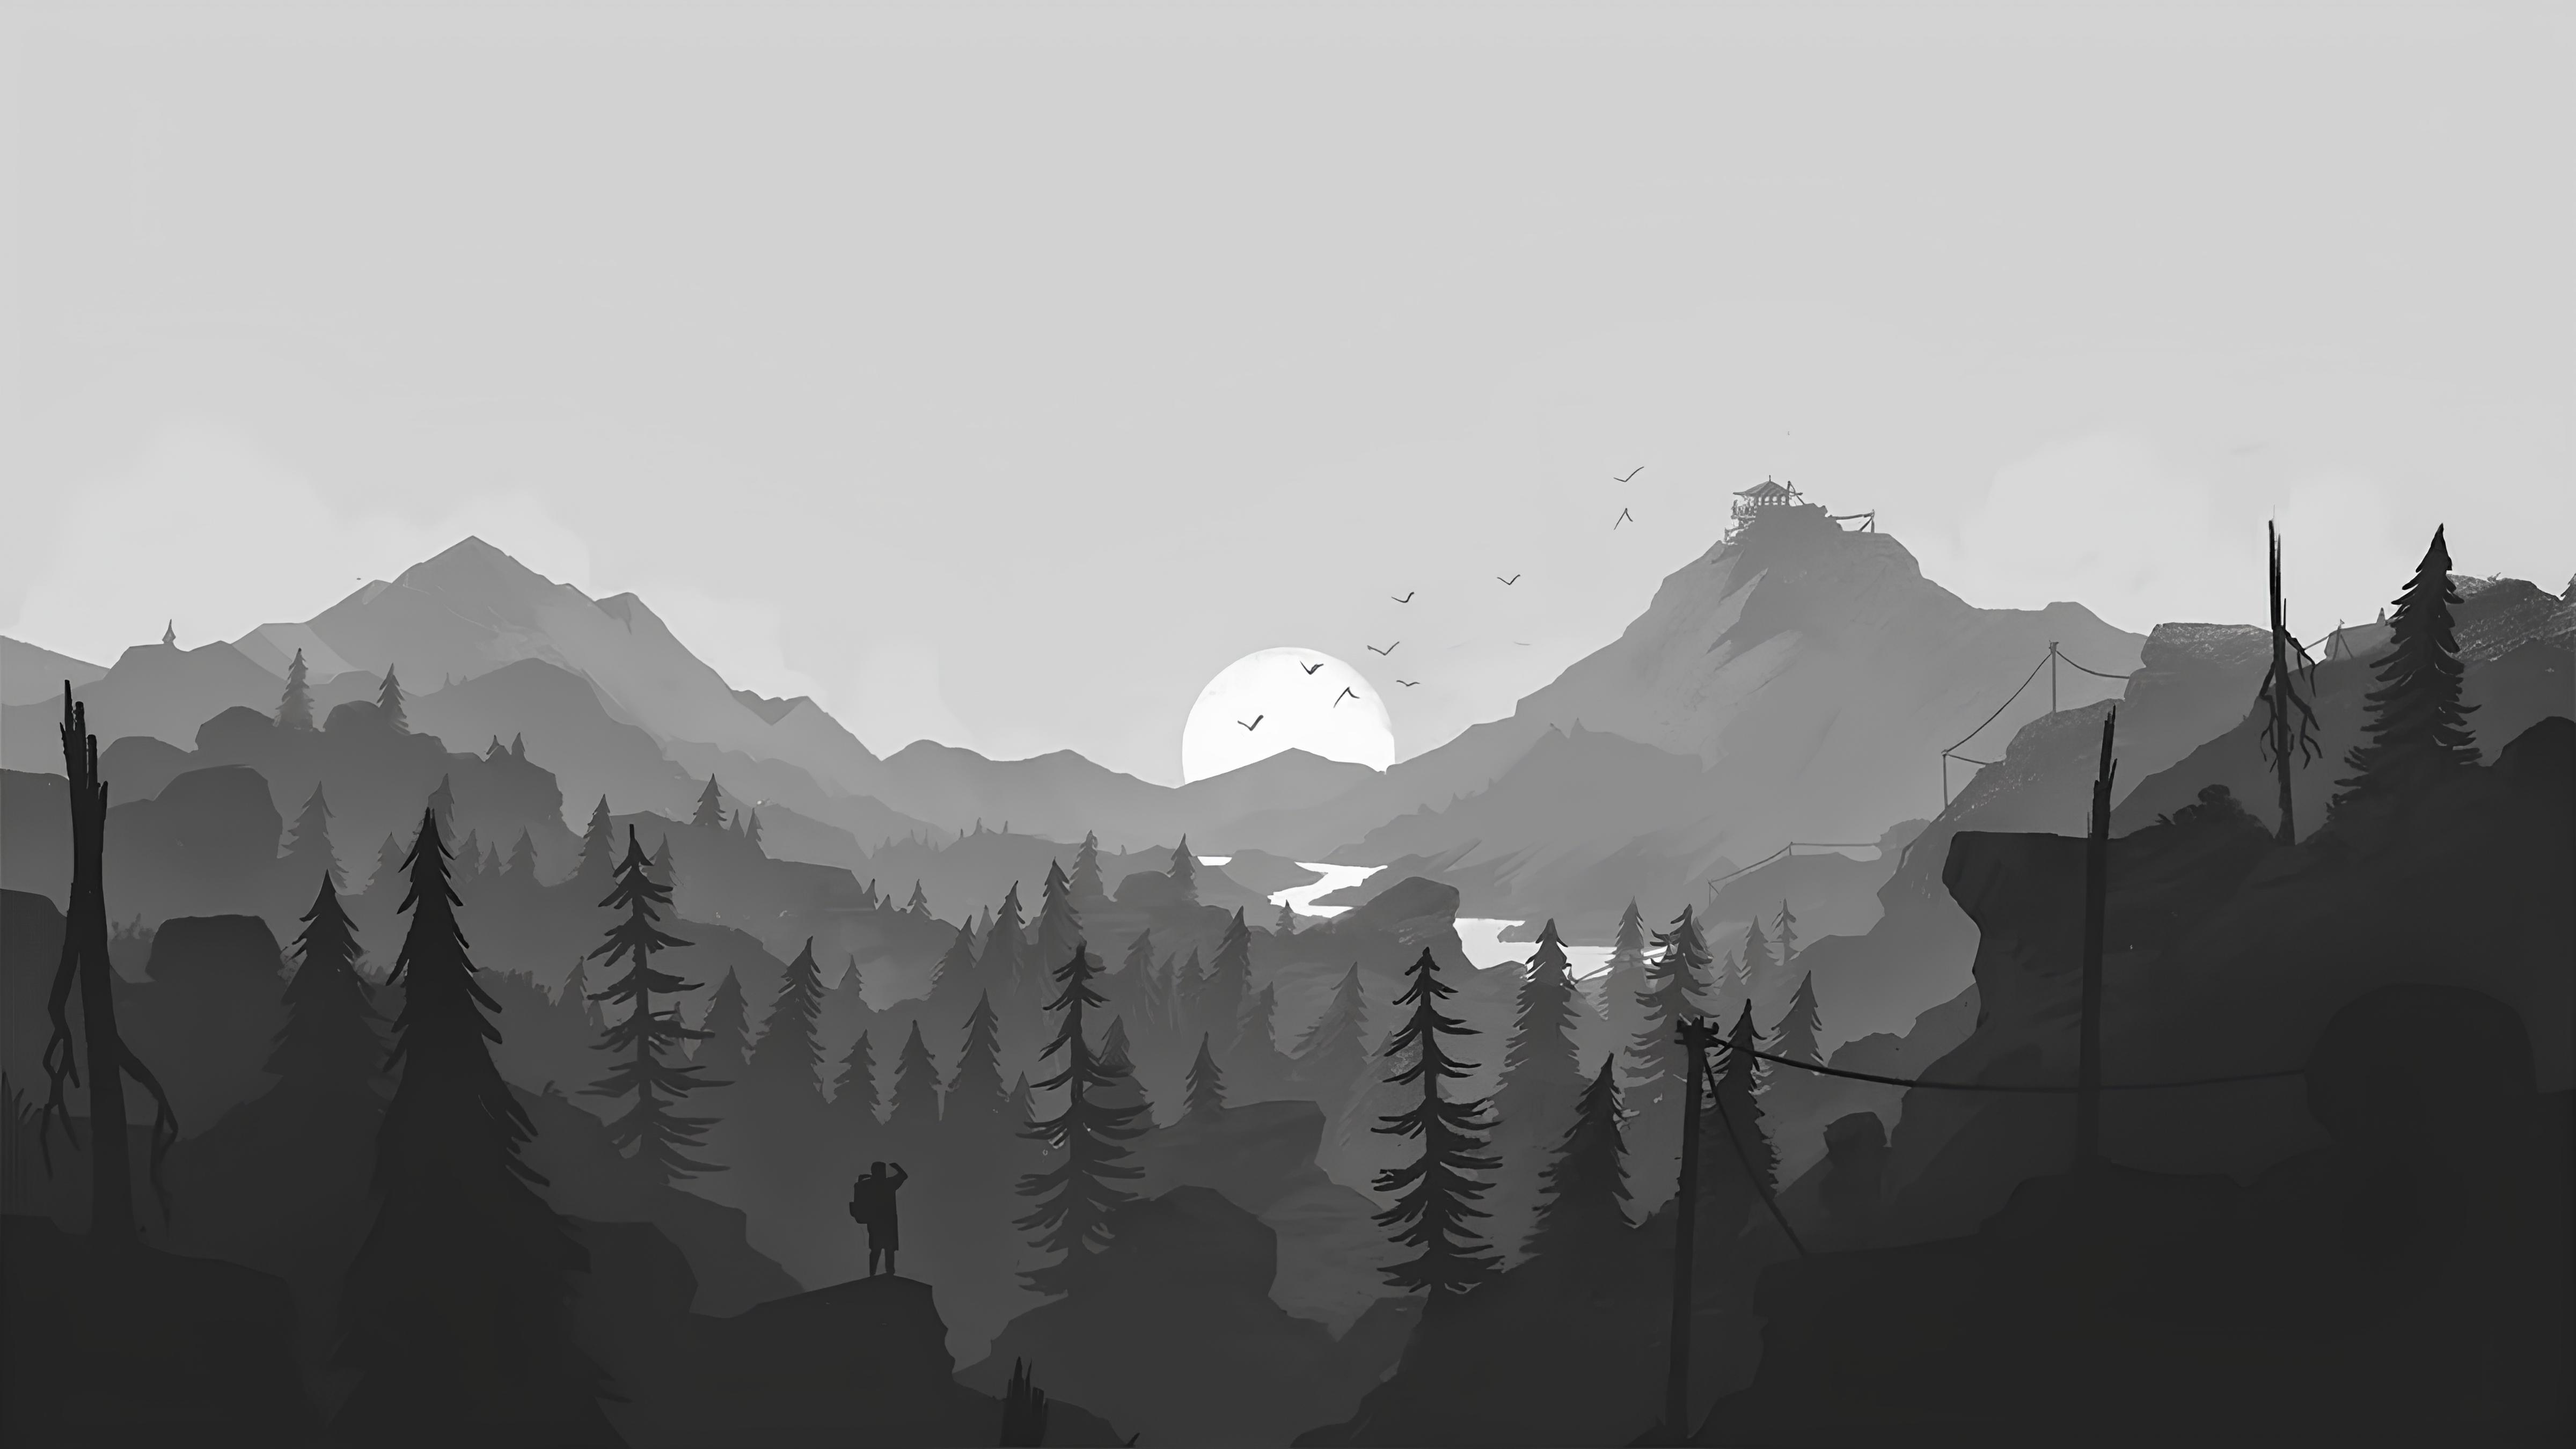
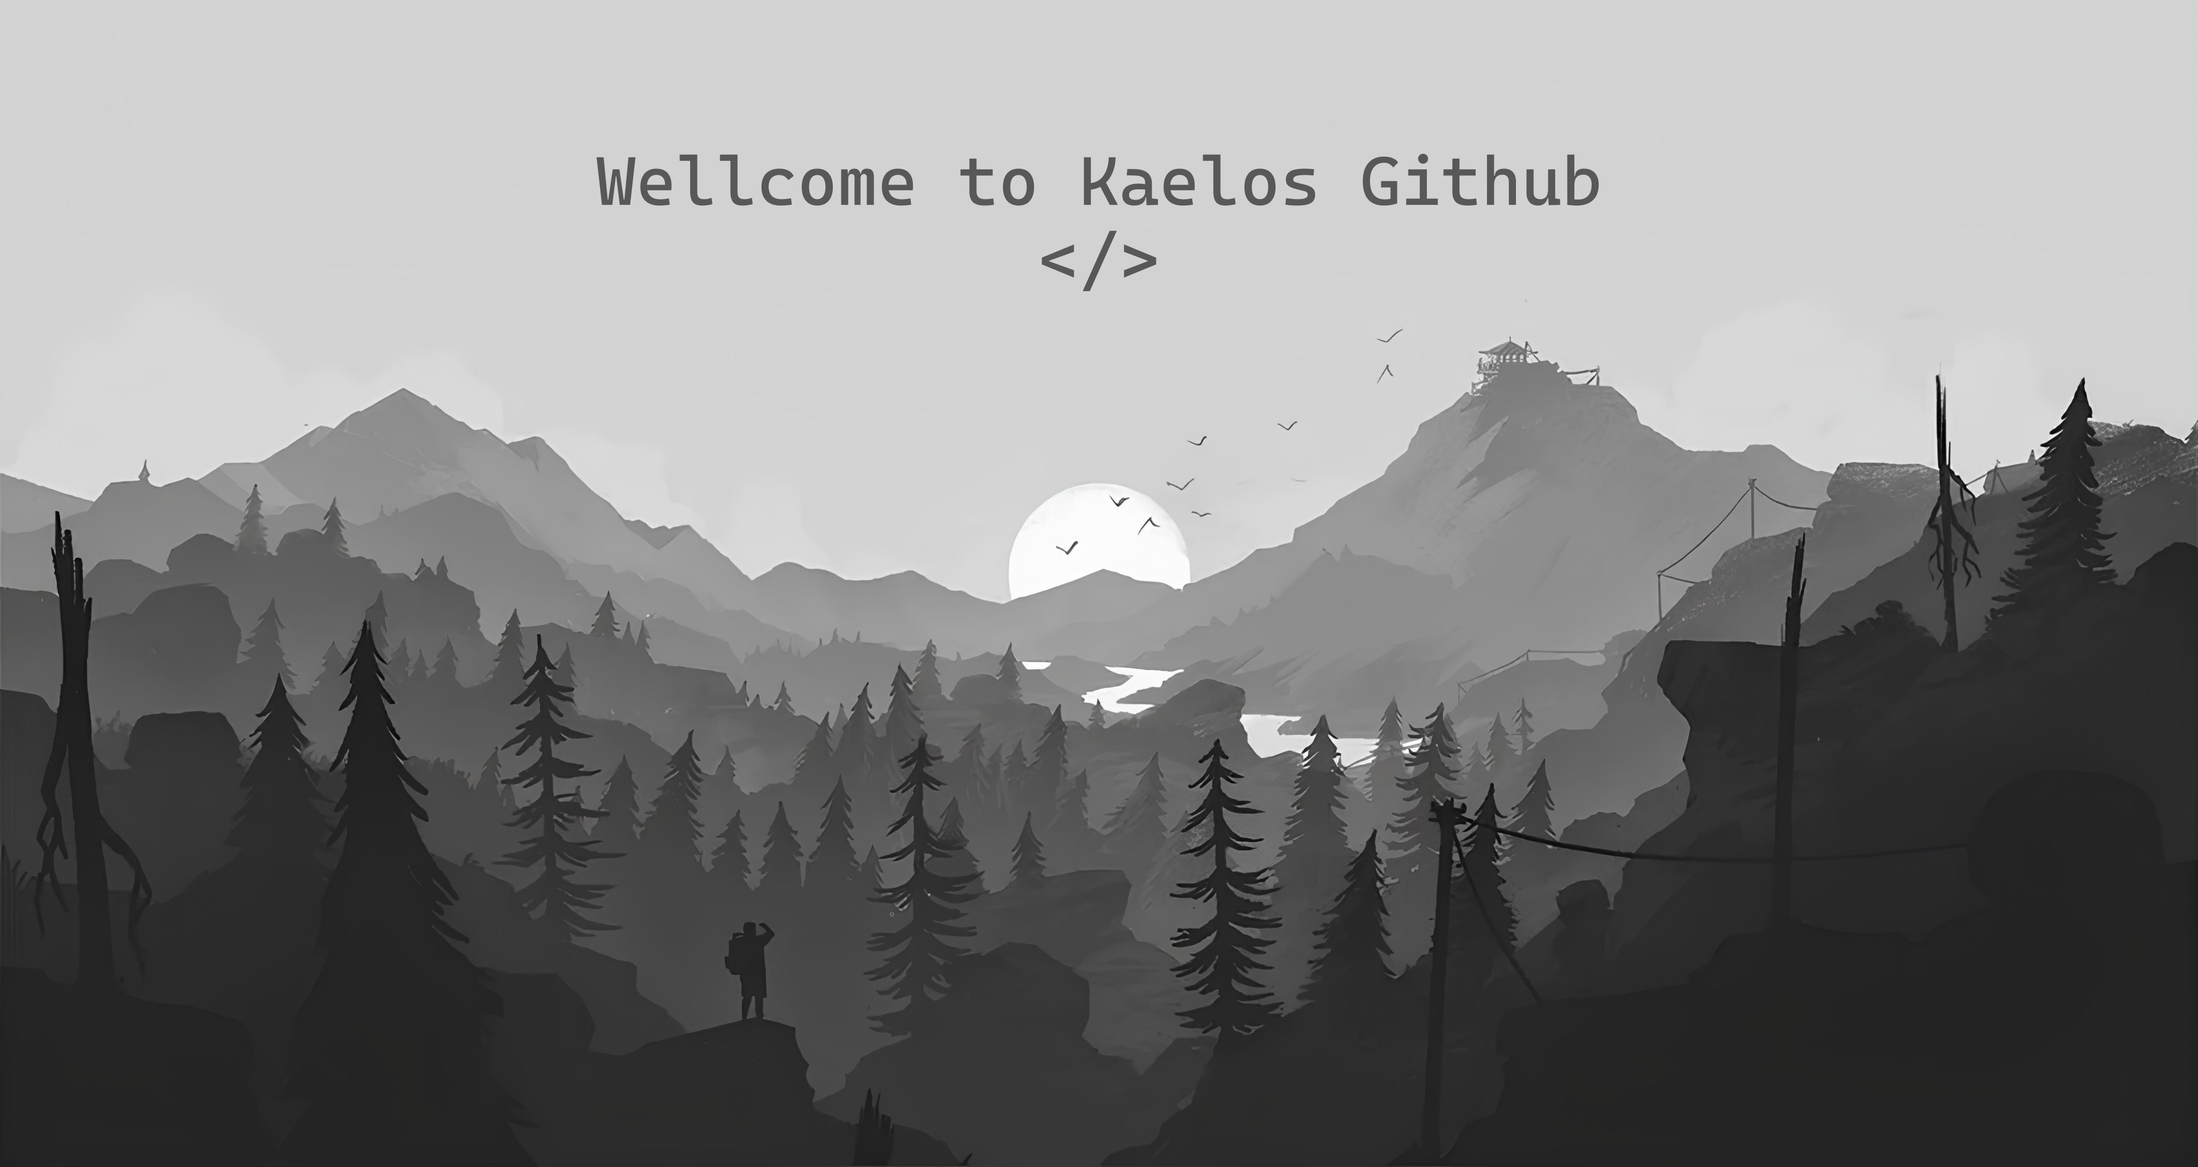
update

diff --git a/README.md b/README.md
@@ -1,5 +1,22 @@
 <div align="center">
-
-![Background](/assets/background.png "This is background image.")
-
+    <img src="/assets/background.png" alt="This is background">
 </div>
+
+<div align="center">
+    <a href="https://t.me/kaelos_club" target="_blank">
+        <img src="https://img.shields.io/badge/TELEGRAM-black?style=for-the-badge" />
+    </a>
+    <a href="https://www.curseforge.com/members/kaelos" target="_blank">
+        <img src="https://img.shields.io/badge/CURSEFORGE-black?style=for-the-badge" />
+    </a>
+    <a href="https://modrinth.com/user/Kaelos" target="_blank">
+        <img src="https://img.shields.io/badge/MODRINTH-black?style=for-the-badge" />
+    </a>
+    <a href="https://www.youtube.com/@kaelos_dev" target="_blank">
+        <img src="https://img.shields.io/badge/YOUTUBE-black?style=for-the-badge" />
+    </a>
+</div>
+
+###
+
+<h2 align="center">About me</h2>
